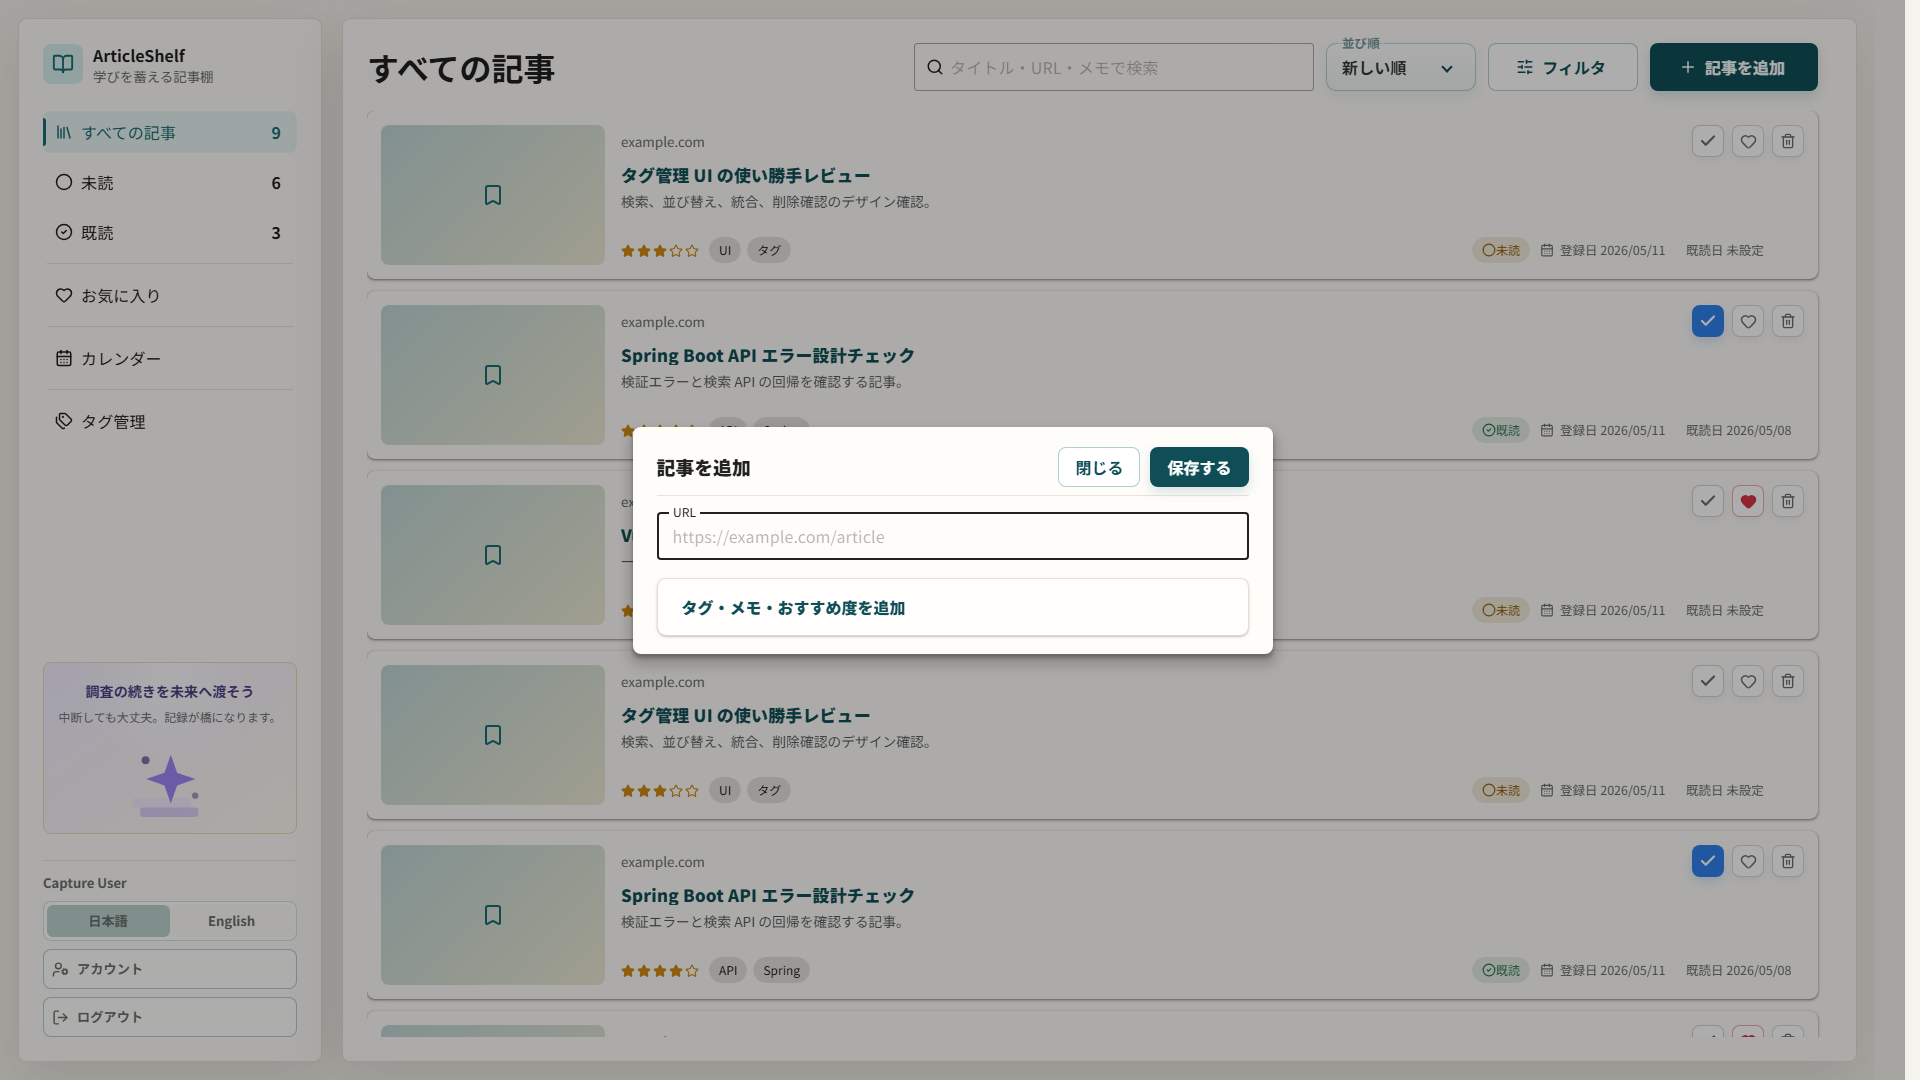
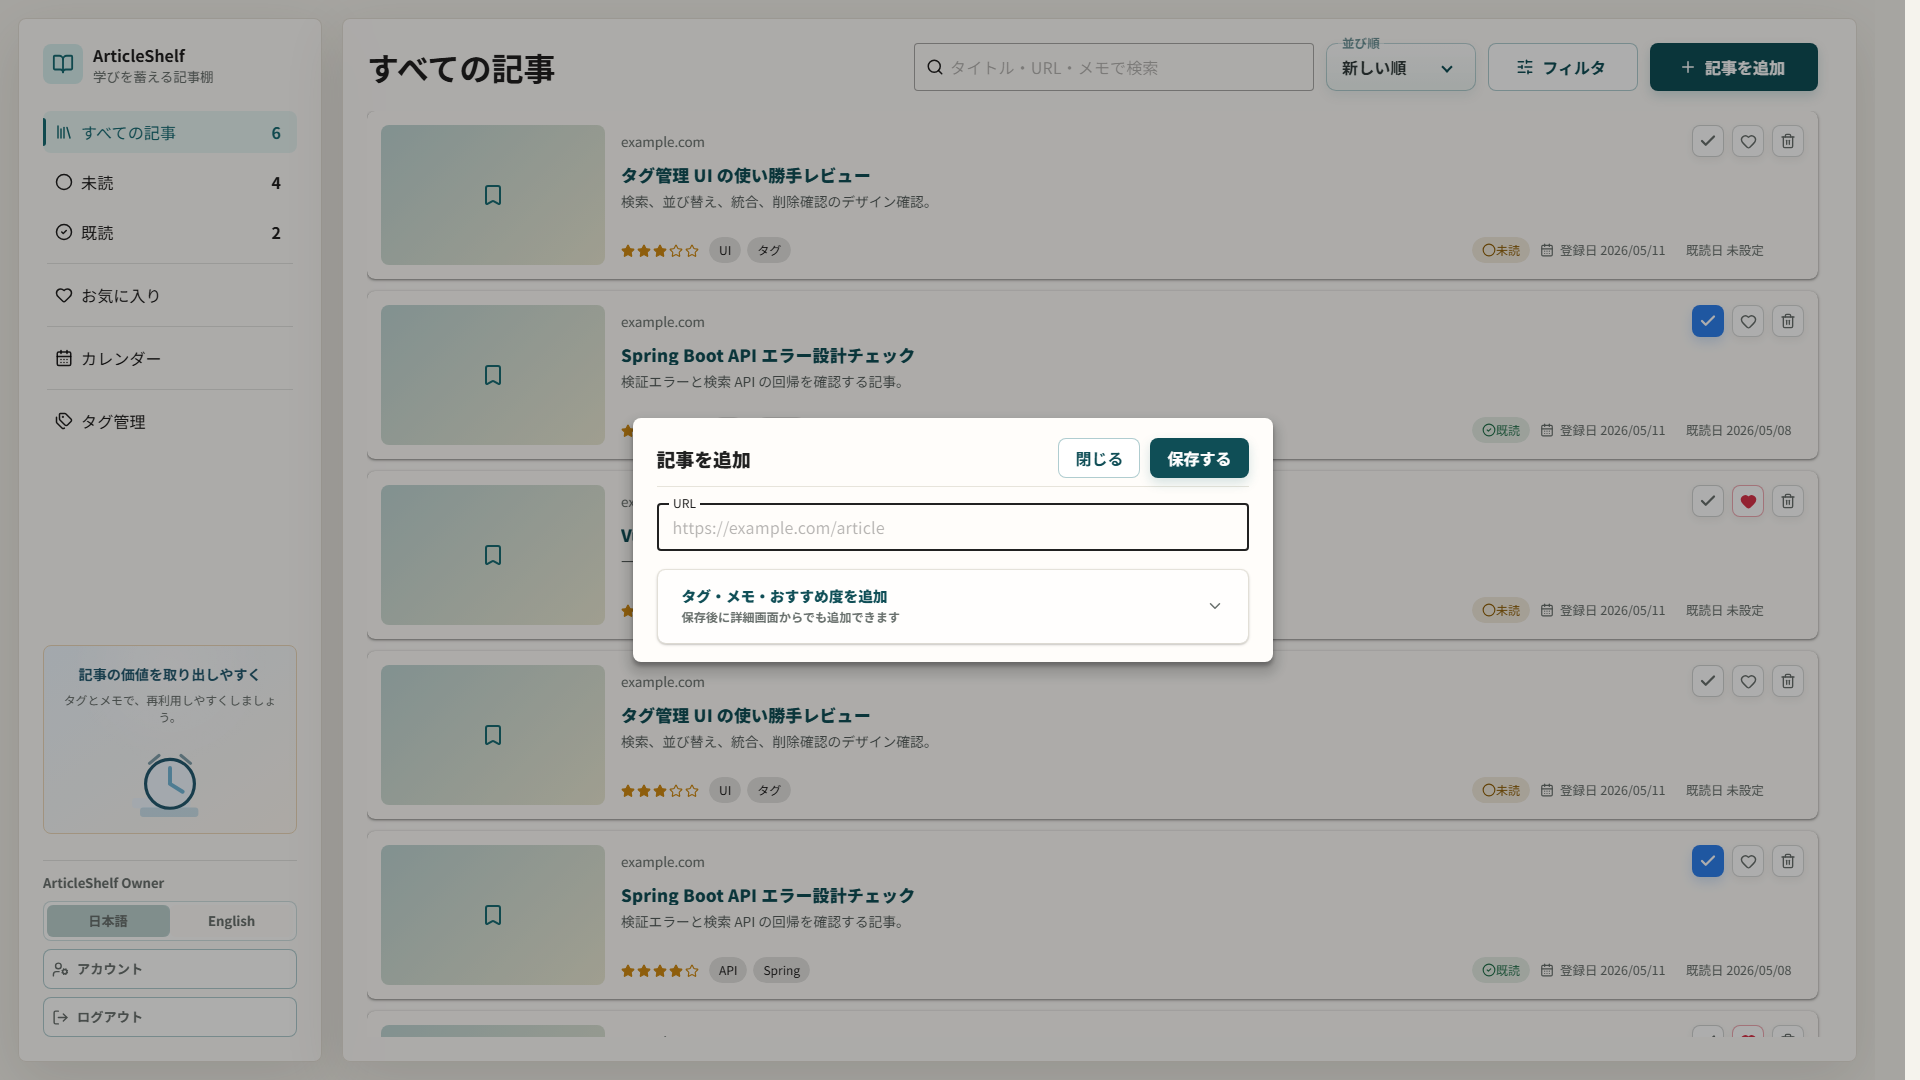
feat: enhance ArticleFormModal with details toggle and update styles for better usability

diff --git a/frontend/src/features/articles/components/ArticleFormModal.vue b/frontend/src/features/articles/components/ArticleFormModal.vue
@@ -1,6 +1,7 @@
 <script setup lang="ts">
 import { ref, toRef, watch } from 'vue'
 import { useI18n } from 'vue-i18n'
+import { ChevronDown } from 'lucide-vue-next'
 import DateField from '../../../shared/components/DateField.vue'
 import StarRating from '../../../shared/components/StarRating.vue'
 import TagEditor from './TagEditor.vue'
@@ -150,7 +151,20 @@ function submit(): void {
 
         <VExpansionPanels v-model="detailsPanel" class="article-form-details" variant="accordion">
           <VExpansionPanel value="details">
-            <VExpansionPanelTitle>{{ t('articleForm.detailsToggle') }}</VExpansionPanelTitle>
+            <VExpansionPanelTitle hide-actions>
+              <div class="article-form-details-title">
+                <span class="article-form-details-copy">
+                  <strong>{{ t('articleForm.detailsToggle') }}</strong>
+                  <small>{{ t('articleForm.detailsHelp') }}</small>
+                </span>
+                <ChevronDown
+                  class="article-form-details-icon"
+                  :class="{ 'is-open': detailsPanel === 'details' }"
+                  :size="18"
+                  aria-hidden="true"
+                />
+              </div>
+            </VExpansionPanelTitle>
             <VExpansionPanelText>
               <div class="modal-field title-input-group">
                 <VTextField

diff --git a/frontend/src/styles/forms-and-dialogs.css b/frontend/src/styles/forms-and-dialogs.css
@@ -105,6 +105,50 @@
   font-weight: 800;
 }
 
+.article-form-details-title {
+  display: flex;
+  align-items: center;
+  justify-content: space-between;
+  gap: 12px;
+  width: 100%;
+  min-width: 0;
+}
+
+.article-form-details-copy {
+  display: grid;
+  gap: 3px;
+  min-width: 0;
+}
+
+.article-form-details-copy strong,
+.article-form-details-copy small {
+  min-width: 0;
+  overflow-wrap: anywhere;
+}
+
+.article-form-details-copy strong {
+  color: var(--accent-strong);
+  font-size: 0.92rem;
+  line-height: 1.35;
+}
+
+.article-form-details-copy small {
+  color: var(--muted);
+  font-size: 0.76rem;
+  font-weight: 700;
+  line-height: 1.45;
+}
+
+.article-form-details-icon {
+  flex: 0 0 auto;
+  color: var(--muted);
+  transition: transform 0.18s ease;
+}
+
+.article-form-details-icon.is-open {
+  transform: rotate(180deg);
+}
+
 .article-form-details .v-expansion-panel-text__wrapper {
   display: grid;
   gap: 0;

diff --git a/frontend/src/shared/i18n/messages/ja.ts b/frontend/src/shared/i18n/messages/ja.ts
@@ -199,6 +199,7 @@ export const ja = {
       newTagPlaceholder: '例: Vue',
       details: '記事の詳細',
       detailsToggle: 'タグ・メモ・おすすめ度を追加',
+      detailsHelp: '保存後に詳細画面からでも追加できます',
       previewLoading: 'プレビューを取得しています',
       previewThumbnailAlt: '記事プレビューのサムネイル',
       previewUnavailableTitle: 'プレビューを取得できませんでした',

diff --git a/frontend/src/shared/i18n/messages/en.ts b/frontend/src/shared/i18n/messages/en.ts
@@ -199,6 +199,7 @@ export const en = {
       newTagPlaceholder: 'Example: Vue',
       details: 'Article details',
       detailsToggle: 'Add tags, notes, or rating',
+      detailsHelp: 'You can also add them later from the article details page',
       previewLoading: 'Fetching preview',
       previewThumbnailAlt: 'Article preview thumbnail',
       previewUnavailableTitle: 'Could not fetch a preview',

diff --git a/frontend/src/styles/tokens.css b/frontend/src/styles/tokens.css
@@ -42,7 +42,7 @@
   --danger: #b33b2f;
   --shadow: 0 18px 60px rgba(55, 48, 37, 0.12);
   --header-control-height: 48px;
-  --article-thumb-width: 224px;
+  --article-thumb-width: 248px;
   --article-thumb-height: 140px;
   --shell-panel-padding: 24px;
   --scrollbar-thumb: rgba(105, 112, 109, 0.28);
@@ -54,4 +54,3 @@
 * {
   box-sizing: border-box;
 }
-

diff --git a/frontend/src/styles/responsive.css b/frontend/src/styles/responsive.css
@@ -35,6 +35,7 @@
     gap: 14px;
     padding: 14px;
     --shell-panel-padding: 18px;
+    --article-thumb-width: 224px;
   }
 
   .content {

diff --git a/docs/designs/components/articles.md b/docs/designs/components/articles.md
@@ -29,7 +29,7 @@ ArticleCard、ArticleDetail、ArticleFormModal、SearchFilterBar の設計ルー
 - お気に入り状態のハートは赤で表示する
 - お気に入り追加 / 解除は一覧全体をローディング表示に戻さず、カード上で即時反映して裏で保存する
 - 記事カード上の削除アイコンは枠付きボタンとして表示し、クリック可能な操作であることを明確にする
-- OGP画像はQiitaやZennなどの横長OGPを見やすい大きめのサムネイルとして表示し、サムネイル領域が表示範囲に近づいた時だけ取得する。取得した画像はブラウザのIndexedDBに保存した画像Blobを表示し、未保存または取得不可の場合はプレースホルダーを表示する。IndexedDB cache は最大件数と最大容量を超えた古い記録を削除する
+- OGP画像はQiitaやZennなどの横長OGPを見やすい大きめのサムネイルとして表示し、デスクトップのサムネイル枠は 16:9 に近い比率で左右の見切れを抑える。タブレット以下では本文幅を優先し、既存のコンパクト幅または1カラムの 16:9 表示に切り替える。サムネイル領域が表示範囲に近づいた時だけ取得する。取得した画像はブラウザのIndexedDBに保存した画像Blobを表示し、未保存または取得不可の場合はプレースホルダーを表示する。IndexedDB cache は最大件数と最大容量を超えた古い記録を削除する
 
 ## 2. ArticleDetail
 
@@ -81,6 +81,7 @@ ArticleCard、ArticleDetail、ArticleFormModal、SearchFilterBar の設計ルー
 - 入力欄が窮屈に見えないよう、記事追加モーダルはフォームを読みやすい広めの幅で表示する
 - タイトル、閉じる、保存するボタンは同じヘッダー行に配置し、タイトル下の余白を抑える
 - 初期表示は URL 入力とプレビュー領域を主役にし、タイトル、タグ、おすすめ度、あとで読む、既読日、メモは折りたたみ詳細に収める
+- 折りたたみ詳細の見出しは、詳細画面の「記事の詳細」アコーディオンと同じ右端の下向きアイコンを表示し、タグ・メモ・おすすめ度は保存後に詳細画面からでも追加できることを補足する
 - モーダルを開いた直後はURL入力欄に初期フォーカスを置き、コピーした記事URLをすぐ貼り付けられるようにする
 - フォーム内の各入力ブロックは薄い横線と同じ縦余白で反復し、補足文だけを入力欄に近接させる
 - フォーム本文とヘッダー行の左右余白を揃え、保存 / 閉じるのボタン位置を整列させる

diff --git a/docs/specs/features/articles.md b/docs/specs/features/articles.md
@@ -51,6 +51,7 @@
 - URL、タイトル、タグ、メモ、既読日、おすすめ度を入力して追加
 - URL は必須項目とし、未入力では保存しない
 - URL 未入力のバリデーションエラー表示後でも「閉じる」でモーダルを閉じられる
+- タグ、メモ、おすすめ度などの追加項目は折りたたみ詳細から入力でき、見出しでは保存後に詳細画面からでも追加できることを補足する
 - アクセスできない URL やエラー応答になる URL は保存しない
 - URLからOGPを取得してタイトル・概要・サムネイルを自動補完
 - 既存記事の重複チェック
